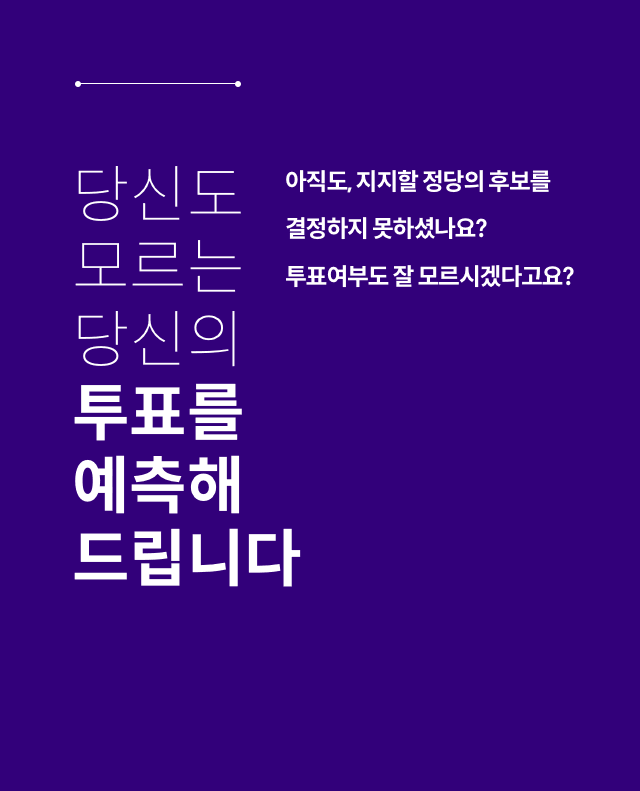
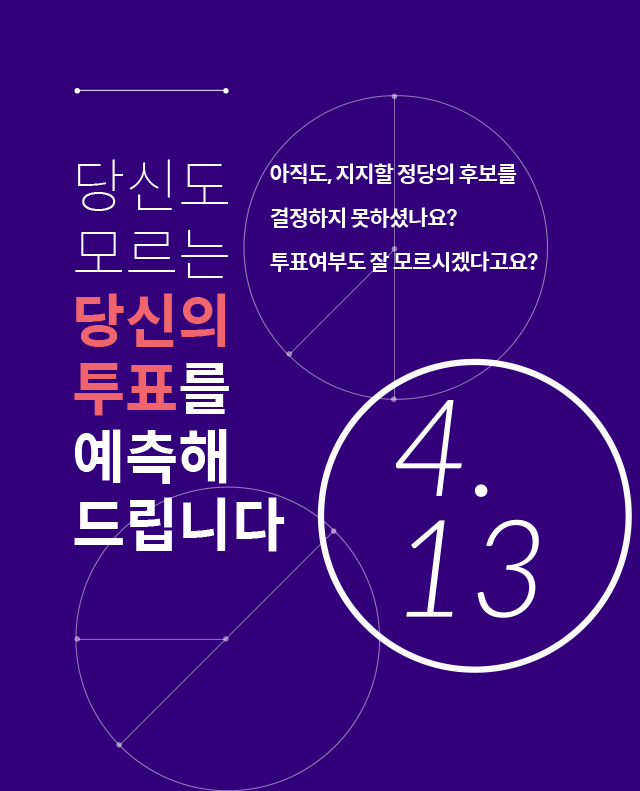
publishing

diff --git a/app/assets/stylesheets/application.scss b/app/assets/stylesheets/application.scss
@@ -19,8 +19,147 @@ body {
   }
 }
 
+#vote-section {
+  background-image: image-url('bg-vote.jpg');
+  background-position: center top;
+  background-repeat: no-repeat;
+
+  .action-body {
+    padding: 60px 70px;
+  }
+
+  p.intro {
+    color: #fff;
+    font-size: 28px;
+    font-weight: 100;
+    padding: 100px 0 20px;
+  }
+
+  .navigation {
+    background-image: image-url('bg-line.jpg');
+    background-position: center center;
+    background-repeat: repeat-x;
+    height: 20px;
+    list-style: none;
+    padding: 0;
+    position: relative;
+    li {
+      color: #966fd6;
+    }
+    li.active {
+      color: #fff;
+    }
+    li {
+      position: absolute;
+      left: -1%;
+    }
+    li+li { left: 14%; }
+    li+li+li { left: 28%; }
+    li+li+li+li { left: 42%; }
+    li+li+li+li+li { left: 56%; }
+    li+li+li+li+li+li { left: 70%; }
+    li+li+li+li+li+li+li { left: 84%; }
+    li+li+li+li+li+li+li+li { left: 98%; }
+  }
+
+  h2 {
+    color: #fff;
+    font-weight: bold;
+  }
+  h2.number {
+    font-weight: 100;
+    padding-top: 20px;
+  }
+
+  form {
+    color: #fff;
+    font-size: 28px;
+    padding-top: 60px;
+    input[type=text] {
+      background: transparent;
+      border: 5px solid #fff;
+      border-radius: 0;
+      color: #fff;
+      text-align: center;
+      width: 250px;
+    }
+    label {
+      line-height: 25px;
+    }
+    input[type=radio] {
+    }
+  }
+
+  .btn-next {
+    background-color: #e26169;
+    border: none;
+    border-radius: 0;
+    color: #fff;
+    font-size: 28px;
+    font-weight: 600i;
+    margin-top: 60px;
+    padding: 0.5em 0;
+    &:hover {
+      background-color: #32007a;
+    }
+  }
+
+  .result {
+    background-color: #fff;
+    padding: 30px 30px 60px;
+    margin-top: 40px;
+    position: relative;
+
+    h3 {
+      color: #32007a;
+      font-weight: bold;
+      margin: 0;
+      margin-bottom: 10px;
+    }
+    h3.thin {
+      font-weight: 100;
+    }
+    ul {
+      border: 1px solid #32007a;
+      border-bottom: none;
+      color: #32007a;
+      list-style: none;
+      margin: 30px 0;
+      padding: 0;
+      li {
+        padding: 20px;
+        border-bottom: 1px solid #32007a;
+        h3 {
+          margin: 0;
+          font-weight: 100;
+        }
+        .pull-right {
+          color: #e26169;
+          font-size: 16px;
+          line-height: 28px;
+          .percentage {
+            font-size: 24px;
+          }
+        }
+      }
+    }
+    &:after {
+      position: absolute;
+      z-index: 100;
+      bottom: 0;
+      left: 0;
+      border-style: solid;
+      border-width: 100px 0 0 100px;
+      border-color: transparent transparent transparent #5733a3;
+      content: ' ';
+    }
+  }
+}
+
 #contributors-section {
+  padding: 50px 0 30px;
   .container {
+    padding: 0 70px;
     text-align: justify;
   }
 }

diff --git a/app/assets/stylesheets/mobile.scss b/app/assets/stylesheets/mobile.scss
@@ -1,0 +1,62 @@
+@import 'application';
+
+#intro-section {
+  background-size: cover;
+}
+
+#vote-section {
+  .action-body {
+    padding: 30px 20px;
+  }
+  p.intro {
+    font-size: 20px;
+    padding: 50px 0 20px;
+  }
+  .btn-next {
+    font-size: 20px;
+    margin-top: 20px;
+  }
+  h2 {
+    font-size: 20px;
+  }
+  form {
+    font-size: 18px;
+  }
+  .result {
+    padding: 15px 15px 30px;
+    h3 {
+      font-size: 14px;
+    }
+    ul {
+      margin: 15px 0;
+      li {
+        padding: 10px;
+        .pull-right {
+          font-size: 8px;
+          .percentage {
+            font-size: 14px;
+          }
+        }
+      }
+    }
+    &:after {
+      border-width: 50px 0 0 50px;
+    }
+  }
+}
+
+#contributors-section {
+  .container {
+    padding: 0 20px;
+  }
+
+  img.logo-h21 {
+    width: 55px;
+  }
+  img.logo-parti {
+    width: 45px;
+  }
+  img.logo-choi {
+    width: 35px;
+  }
+}

diff --git a/app/controllers/application_controller.rb b/app/controllers/application_controller.rb
@@ -2,4 +2,12 @@ class ApplicationController < ActionController::Base
   # Prevent CSRF attacks by raising an exception.
   # For APIs, you may want to use :null_session instead.
   protect_from_forgery with: :exception
+
+  before_action :detect_browser
+
+  private
+
+  def detect_browser
+    request.variant = :mobile if browser.device.mobile?
+  end
 end

diff --git a/config/initializers/assets.rb b/config/initializers/assets.rb
@@ -8,4 +8,4 @@ Rails.application.config.assets.version = '1.0'
 
 # Precompile additional assets.
 # application.js, application.css, and all non-JS/CSS in app/assets folder are already added.
-# Rails.application.config.assets.precompile += %w( search.js )
+Rails.application.config.assets.precompile += %w( mobile.css )
